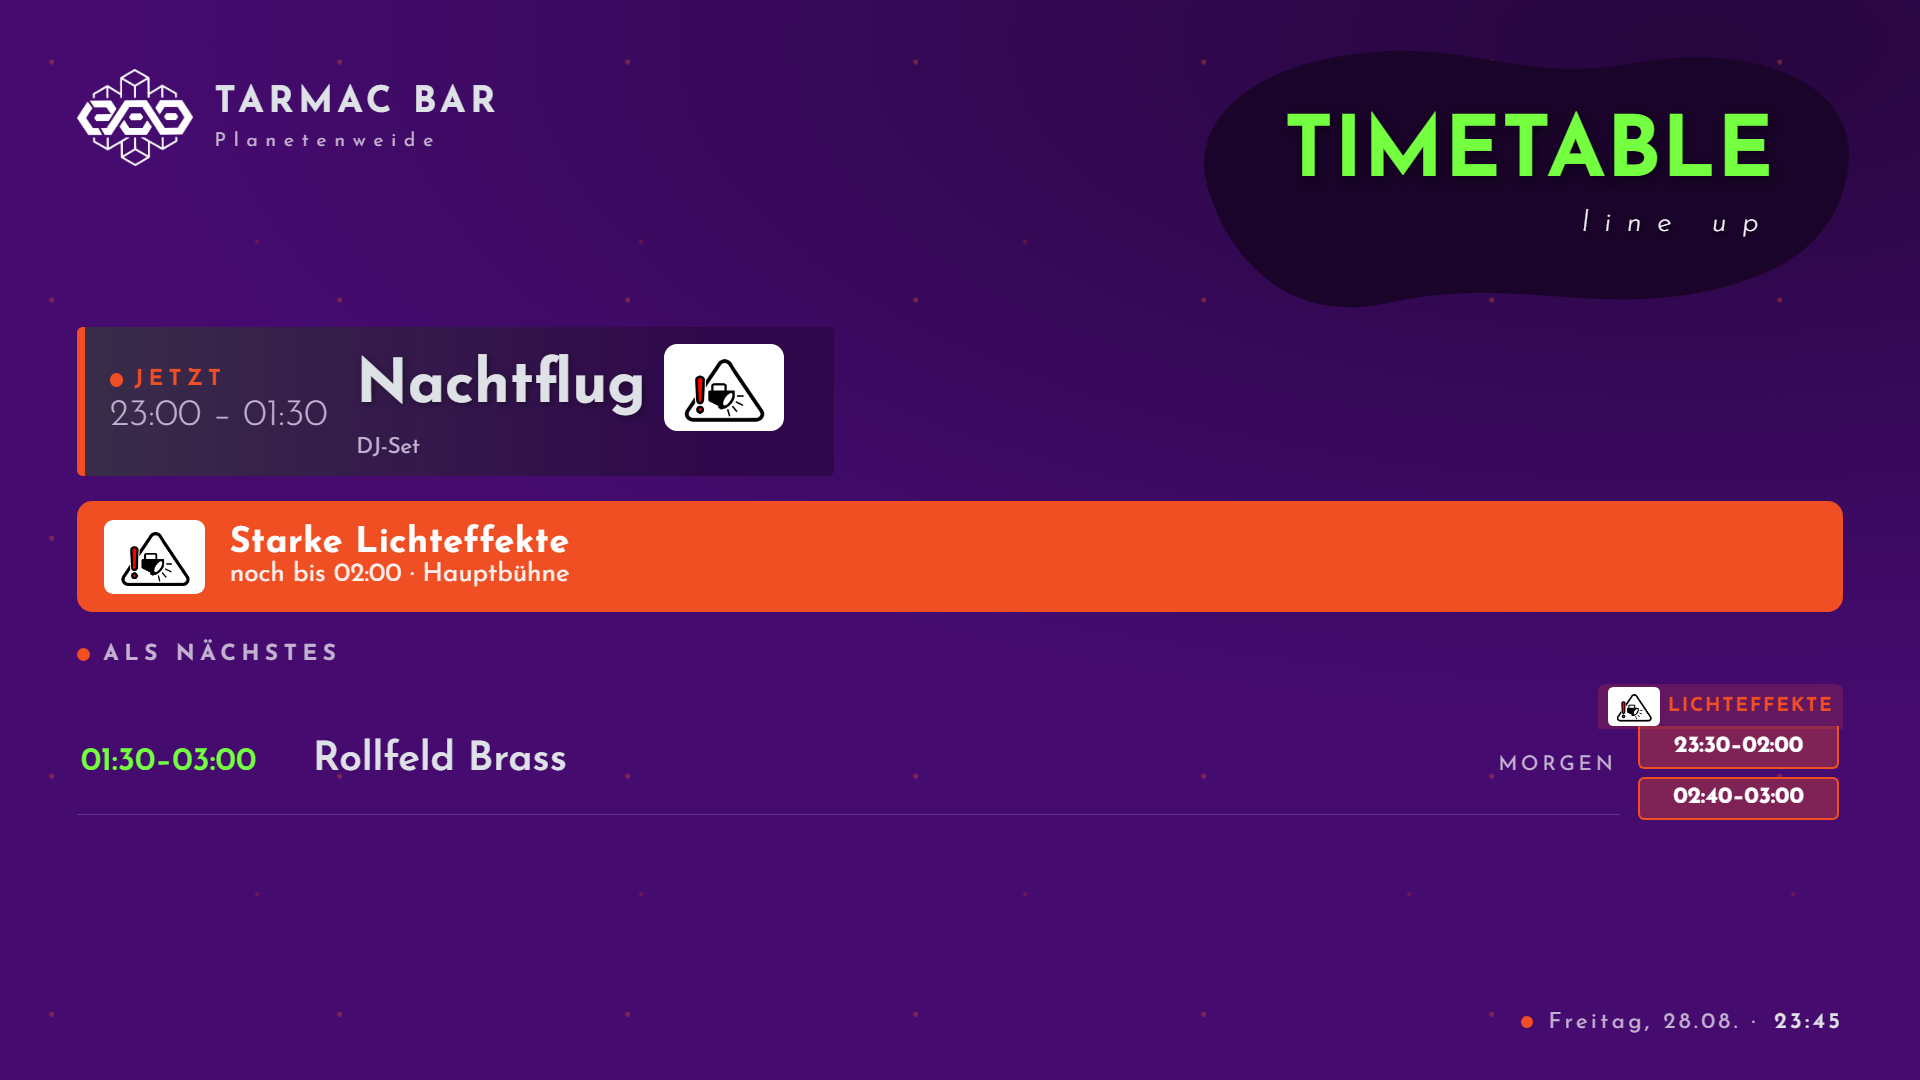
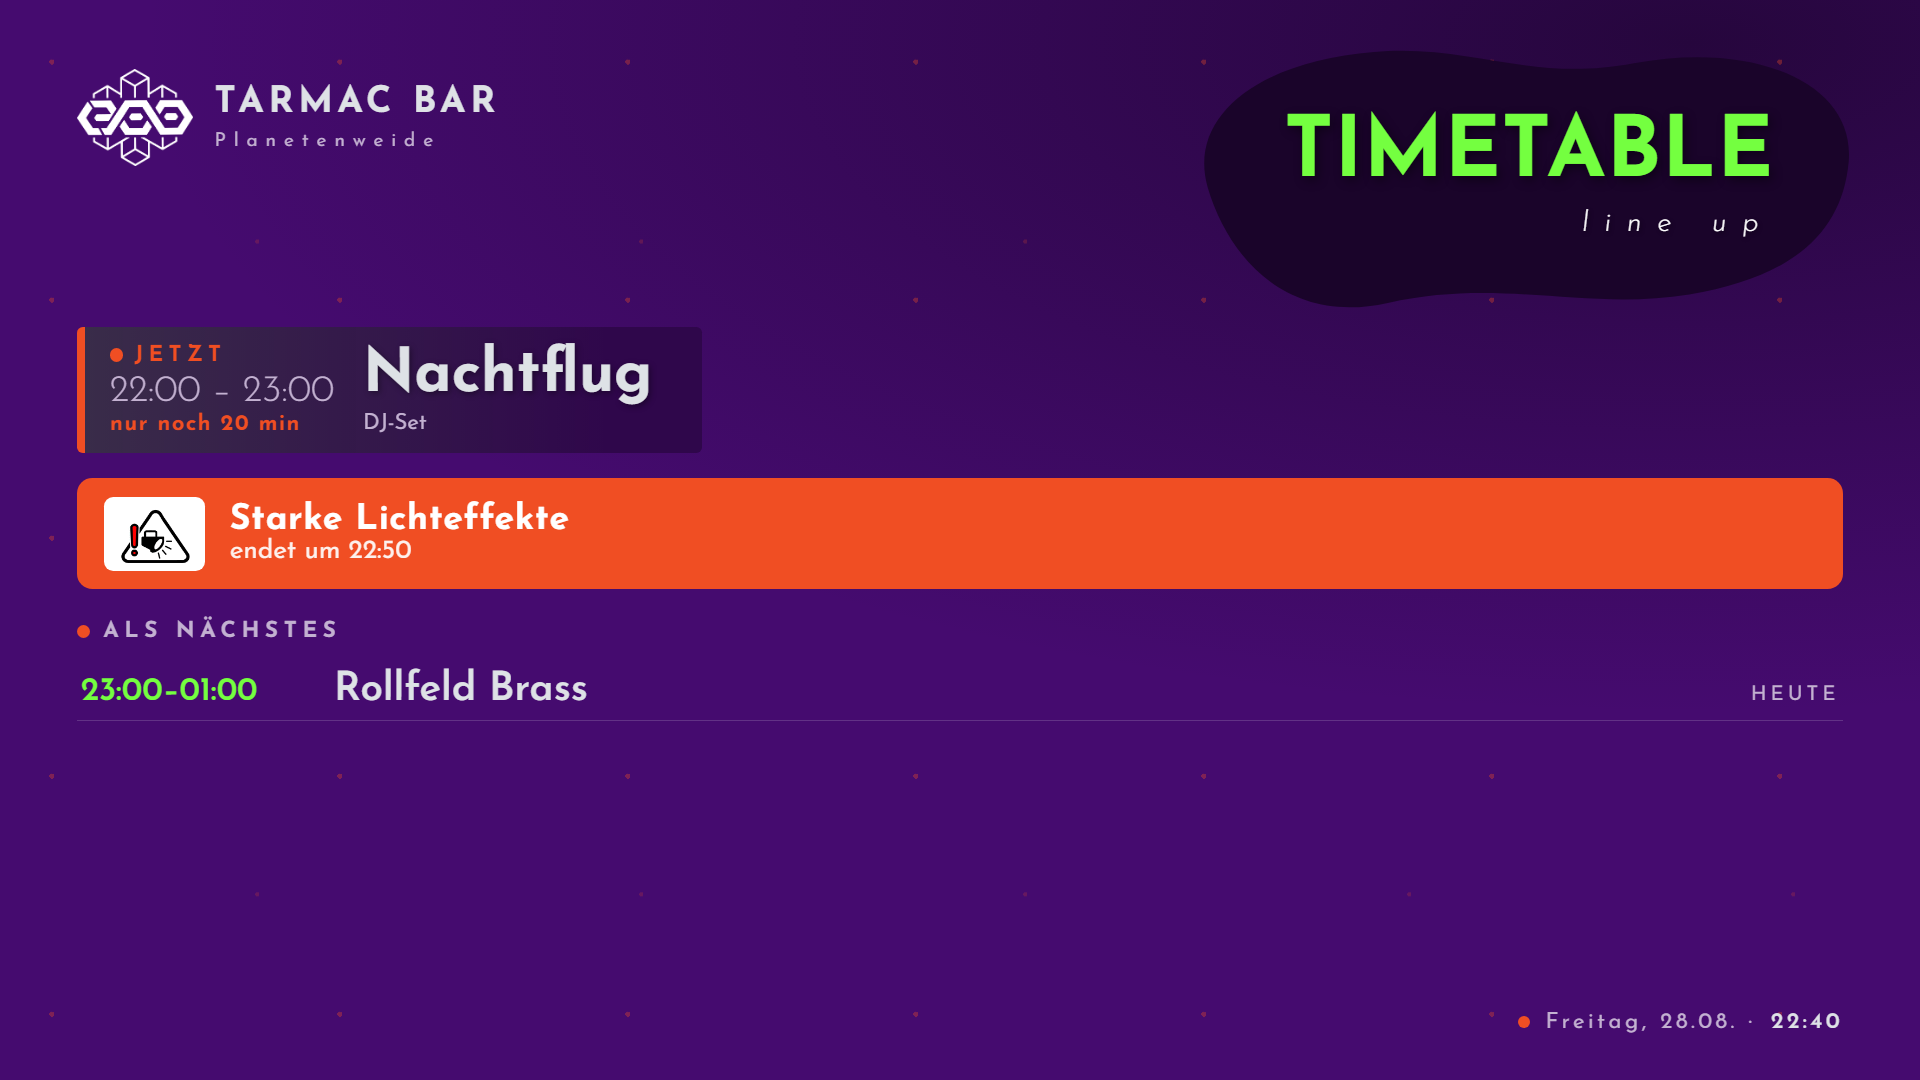
Lichtwarnung und Restzeit auseinanderhalten
Zwei Punkte an derselben Stelle.

1. Doppelt gemoppelt: waehrend einer laufenden Lichtphase stand das Warnzeichen
   am Act und direkt darunter der Balken, der dasselbe sagt - nur genauer. Das
   Zeichen an der Karte faellt jetzt weg, solange der Balken steht. Kommt im
   Set Licht vor, laeuft aber gerade keins, bleibt es: dann ist es die einzige
   Angabe.

2. "noch bis 23:00" auf dem Balken und "nur noch 28 min" beim Act standen
   direkt uebereinander - beide orange, beide mit "noch", beide ueber "wie
   lange noch". Der Balken sagt jetzt "endet um 23:00": ein Zeitpunkt statt
   einer Dauer, ohne "noch". Die eine Angabe gehoert zum Act und steht in
   seiner Karte, die andere zum Licht und steht auf dem Balken - und nur eine
   von beiden traegt das Warnzeichen.

Tests: der Balken sagt "endet um" und enthaelt kein "noch"; das Zeichen ist
waehrend einer Phase nicht an der Karte, ohne Phase schon; und beides
gleichzeitig ergibt "nur noch 20 min" beim Act und "endet um 22:50" auf dem
Balken. Ein vorhandener Test stellte die Uhr mitten in eine Phase und erwartete
das Zeichen an der Karte - er stellt sie jetzt davor.

Changed region(s): [[0.0312, 0.3056, 0.9688, 0.7333], [0.7812, 0.6111, 0.9688, 0.7639], [0.8125, 0.9167, 0.9375, 0.9778]]

diff --git a/test/e2e/lichteffekte.spec.js b/test/e2e/lichteffekte.spec.js
@@ -434,18 +434,69 @@ test.describe('Kennzeichnung im Timetable', () => {
     const warnung = page.locator('.lichtJetzt');
     await expect(warnung).toBeVisible();
     await expect(warnung).toContainText('Starke Lichteffekte');
-    await expect(warnung).toContainText('noch bis 01:00');
+    // Ein Zeitpunkt, keine Dauer - und ohne "noch". Beim Act darueber steht
+    // "nur noch X min"; zwei Angaben mit demselben Wort direkt uebereinander
+    // liest niemand auseinander.
+    await expect(warnung).toContainText('endet um 01:00');
+    await expect(warnung).not.toContainText('noch');
     await expect(warnung.locator('.lichtZeichen')).toHaveCount(1);
 
     // Und sie steht nicht noch einmal darunter - dieselbe Angabe zweimal auf
     // dem Schirm verwirrt mehr, als sie hilft.
     await expect(page.locator('.lichtBalken')).toHaveCount(0);
     await expect(page.locator('.lichtSonst')).toHaveCount(0);
+    // Auch nicht als Zeichen an der JETZT-Karte: der Balken sagt dasselbe,
+    // nur genauer.
+    await expect(page.locator('.ttNow .lichtZeichen')).toHaveCount(0);
   });
+
+  test('ohne laufende Phase bleibt das Zeichen an der JETZT-Karte',
+    async ({ page, bar }) => {
+      // Gegenprobe: es sagt "in diesem Set kommt Licht vor" - das faellt nur
+      // weg, solange der Balken es ohnehin lauter sagt.
+      bar.konfig(programm({
+        timetable: [{ id: 'a1', date: '2026-08-28', start: '23:00', end: '01:30',
+                      act: 'Nachtflug' }],
+        lichteffekte: [{ id: 'l1', date: '2026-08-29', start: '01:00',
+                         end: '01:20', note: '' }]
+      }));
+      // 23:30 - das Licht kommt erst spaeter im Set
+      await zeitStellen(page, new Date(2026, 7, 28, 23, 30, 0).getTime());
+      await page.goto(bar.adresse + '/');
+
+      await expect(page.locator('.lichtJetzt')).toHaveCount(0);
+      await expect(page.locator('.ttNow .lichtZeichen')).toHaveCount(1);
+    });
+
+  test('Restzeit und Lichtwarnung sind auseinanderzuhalten',
+    async ({ page, bar }) => {
+      // Beide sagen "wie lange noch" - die eine ueber den Act, die andere ueber
+      // das Licht. Sie duerfen sich nicht gleichen.
+      bar.konfig(programm({
+        timetable: [{ id: 'a1', date: '2026-08-28', start: '22:00', end: '23:00',
+                      act: 'Nachtflug' }],
+        lichteffekte: [{ id: 'l1', date: '2026-08-28', start: '22:30',
+                         end: '22:50', note: '' }]
+      }));
+      // 22:40 - Act noch 20 Minuten, Licht laeuft und endet 22:50
+      await zeitStellen(page, new Date(2026, 7, 28, 22, 40, 0).getTime());
+      await page.goto(bar.adresse + '/');
+
+      await expect(page.locator('.ttRest')).toHaveText('nur noch 20 min');
+      await expect(page.locator('.lichtZeit')).toHaveText('endet um 22:50');
+
+      // Die eine ist eine Dauer beim Act, die andere ein Zeitpunkt auf dem
+      // Balken - und nur eine von beiden traegt das Warnzeichen.
+      await expect(page.locator('.ttNow .lichtZeichen')).toHaveCount(0);
+      await expect(page.locator('.lichtJetzt .lichtZeichen')).toHaveCount(1);
+    });
 
   test('das Zeichen ueberdeckt den Act-Namen nicht', async ({ page, bar }) => {
     bar.konfig(programm());
-    await zeitStellen(page, new Date(2026, 7, 29, 0, 15, 0).getTime());
+    // 23:10 - Nachtflug laeuft, das Licht kommt erst um 23:30. Nur dann steht
+    // das Zeichen an der Karte; waehrend einer laufenden Phase sagt es der
+    // Balken darunter.
+    await zeitStellen(page, new Date(2026, 7, 28, 23, 10, 0).getTime());
     await page.goto(bar.adresse + '/');
 
     // Der laufende Act ist betroffen und traegt das Zeichen

diff --git a/src/player.js b/src/player.js
@@ -928,6 +928,11 @@ function renderTimetable() {
   const fenster = lichtFenster(cfg.lichteffekte);
   let body = '';
 
+  // Laeuft gerade eine Lichtphase? Muss vor der JETZT-Karte feststehen: das
+  // Zeichen an der Karte faellt weg, solange der Balken darunter dasselbe schon
+  // sagt - und zwar genauer.
+  const jetztLicht = lichtJetzt(fenster, now);
+
   if (view.current) {
     const se = view.current.se;
     const e = view.current.entry;
@@ -942,7 +947,10 @@ function renderTimetable() {
         (rest ? '<div class="ttRest">' + escapeHtml(rest) + '</div>' : '') +
         '</div>' +
       '<div class="ttWho"><div class="act">' + escapeHtml(e.act) +
-        (lichtTrifft(se, fenster) ? lichtZeichen() : '') + '</div>' +
+        // Nur wenn im Set Licht vorkommt, aber gerade keins laeuft. Sonst
+        // staende das Zeichen zweimal untereinander: einmal hier und einmal auf
+        // dem Balken, der ohnehin gleich darunter steht.
+        (lichtTrifft(se, fenster) && !jetztLicht ? lichtZeichen() : '') + '</div>' +
       (e.info ? '<div class="info">' + escapeHtml(e.info) + '</div>' : '') + '</div>' +
       '</div>';
   }
@@ -950,11 +958,16 @@ function renderTimetable() {
   // Laeuft gerade eine Lichtphase, steht das ueber allem anderen - wer den
   // Raum deswegen verlassen will, soll es nicht aus einer Tabellenzeile
   // heraussuchen muessen.
-  const jetztLicht = lichtJetzt(fenster, now);
+  //
+  // "endet um 23:00", nicht "noch bis 23:00": ueber der Karte steht beim Act
+  // "nur noch 28 min", und zwei Angaben mit demselben "noch" direkt
+  // uebereinander liest niemand auseinander. Die eine ist eine Dauer und
+  // gehoert zum Act, die andere ein Zeitpunkt und gehoert zum Licht - das muss
+  // man ihnen ansehen.
   if (jetztLicht) {
     body += '<div class="lichtJetzt">' + lichtZeichen('gross') +
       '<div><div class="lichtTitel">Starke Lichteffekte</div>' +
-      '<div class="lichtZeit">noch bis ' + timeLabel(jetztLicht.se.end) +
+      '<div class="lichtZeit">endet um ' + timeLabel(jetztLicht.se.end) +
       (jetztLicht.eintrag.note ? ' &middot; ' + escapeHtml(jetztLicht.eintrag.note) : '') +
       '</div></div></div>';
   }

diff --git a/README.md b/README.md
@@ -445,7 +445,15 @@ Timetable von heute Nacht niemandem etwas sagt. Was weiter weg ist, steht auf
 der Wochenendübersicht.
 
 Läuft gerade eine, steht sie als Balken über der Liste — nicht in einer
-Tabellenzeile, aus der man sie erst heraussuchen müsste.
+Tabellenzeile, aus der man sie erst heraussuchen müsste. **Solange der Balken
+steht, fällt das Warnzeichen am laufenden Act weg**: er sagt dasselbe, nur
+genauer. Kommt im Set Licht vor, läuft aber gerade keins, bleibt das Zeichen an
+der Karte.
+
+Der Balken nennt einen **Zeitpunkt** („endet um 23:00"), die Restzeit des Acts
+darüber eine **Dauer** („nur noch 28 min"). Das ist Absicht: zwei Angaben mit
+demselben „noch" direkt übereinander liest niemand auseinander. Die eine gehört
+zum Act, die andere zum Licht — und nur eine von beiden trägt das Warnzeichen.
 
 ![Laufende Lichtphase](docs/screenshots/anzeige-lichteffekte-jetzt.png)
 
